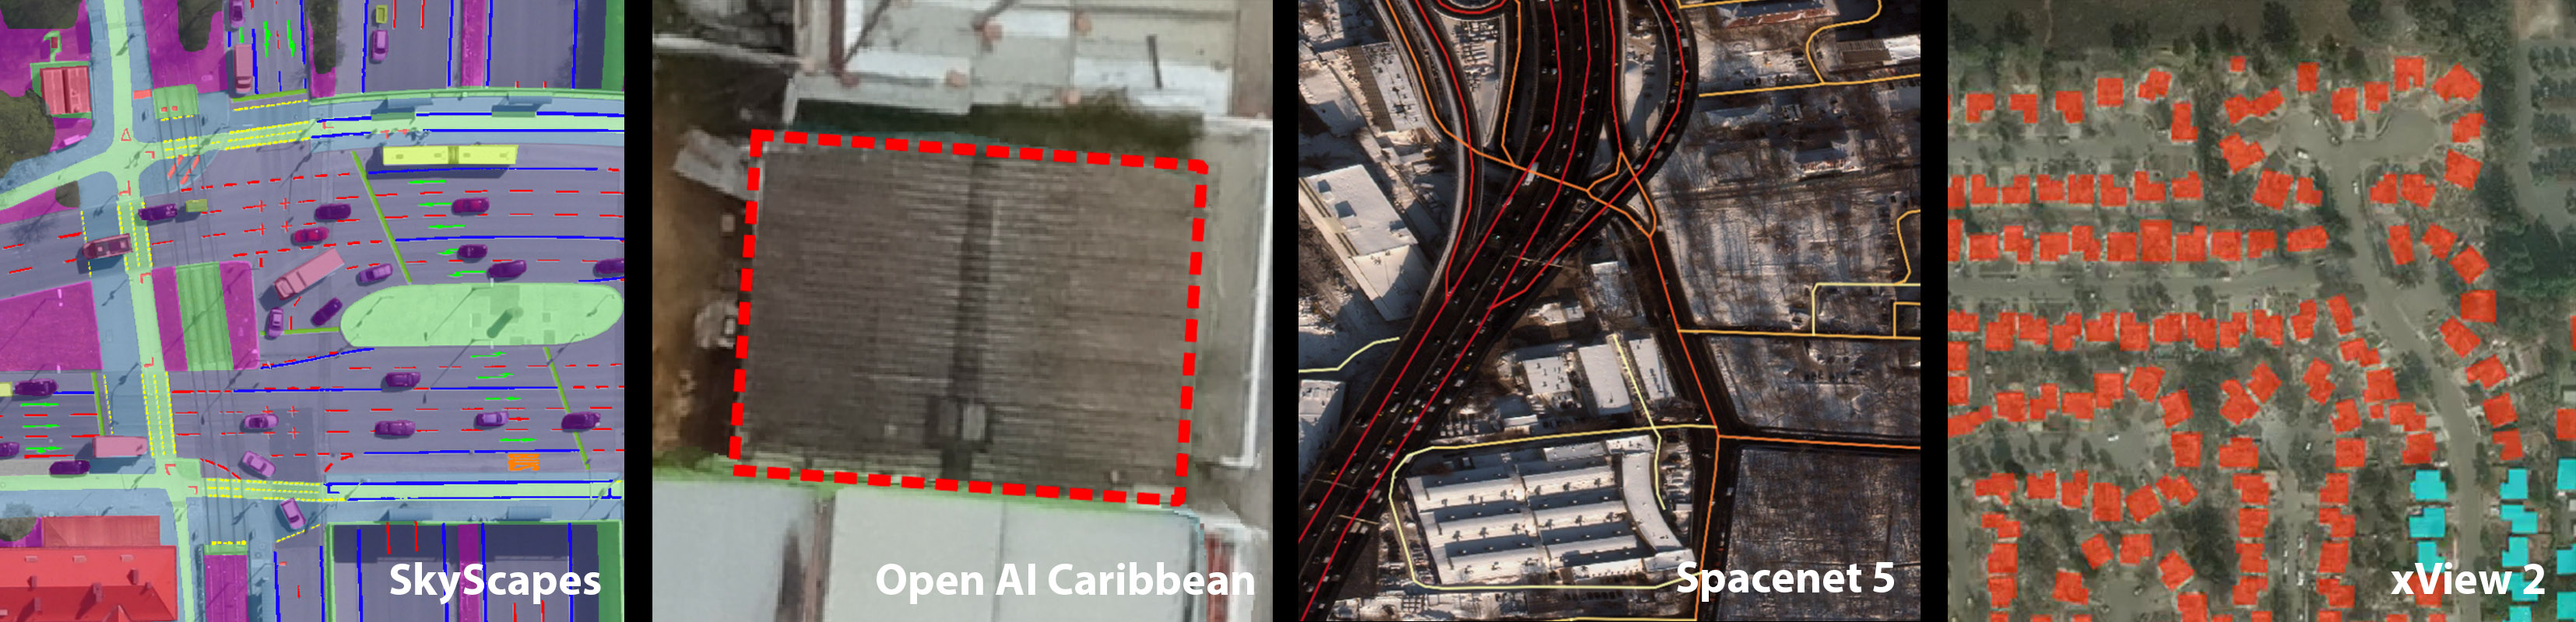
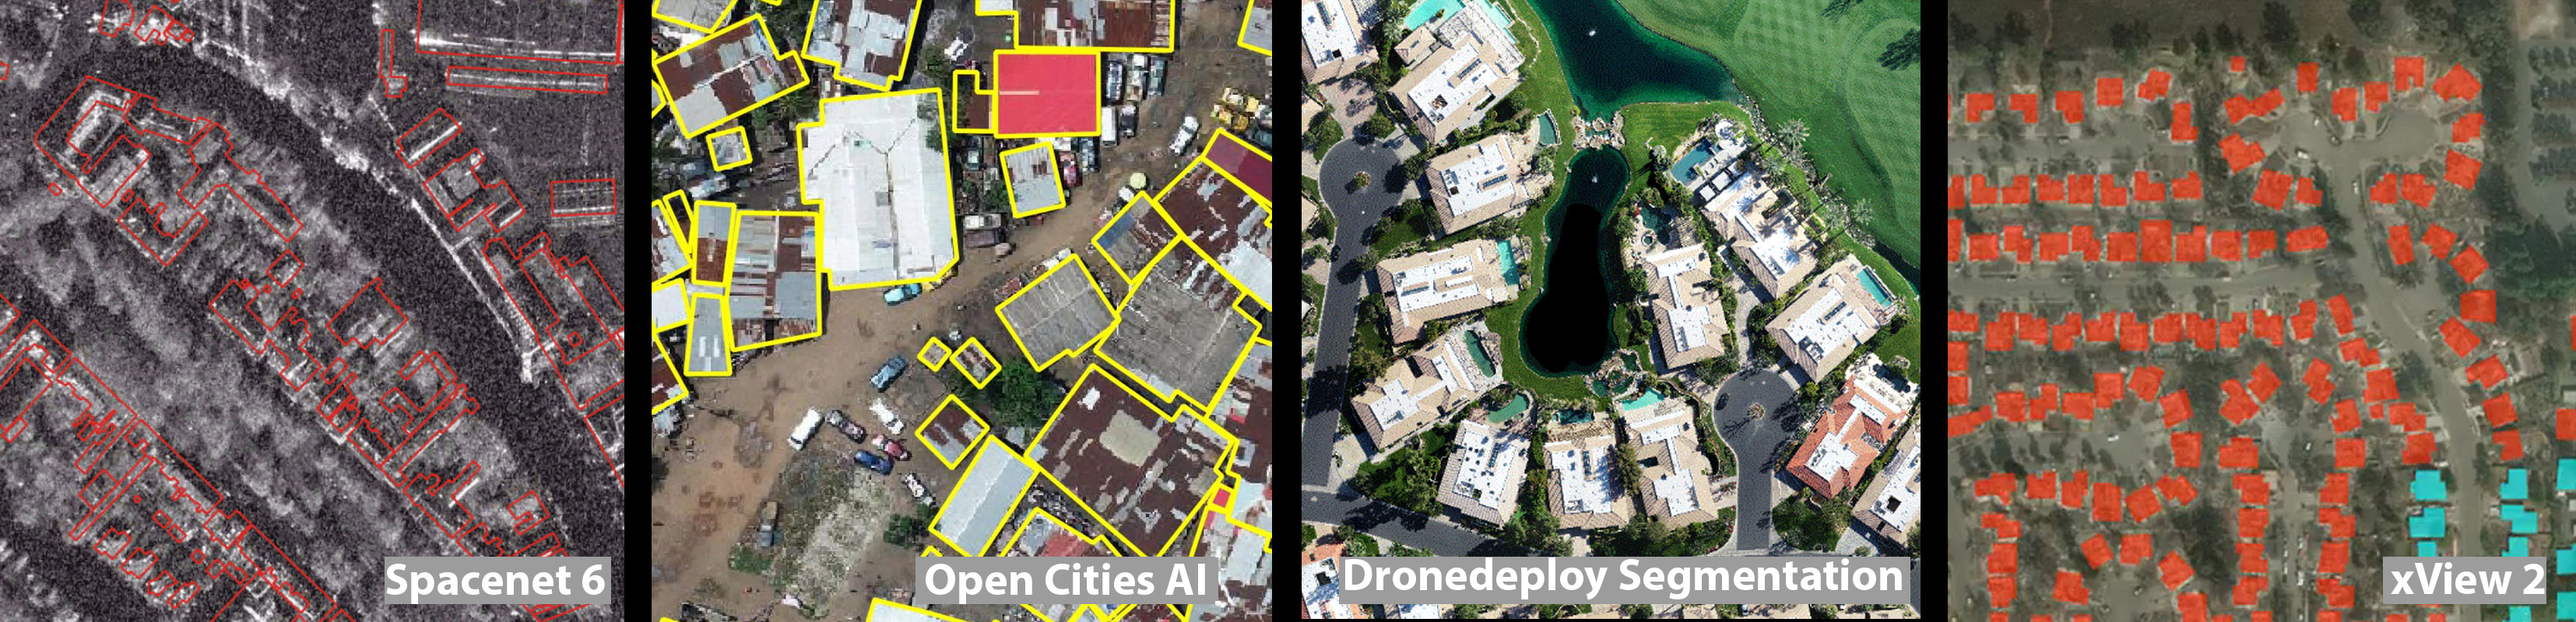
add Spacenet Round 6 - Multi-Sensor All Weather Mapping

diff --git a/README.md b/README.md
@@ -6,19 +6,22 @@ List of aerial and satellite imagery datasets with annotations for computer visi
 
 ## Recent additions and ongoing competitions
 
+- [**Spacenet Challenge Round 6 - Multi-Sensor All Weather Mapping**](https://medium.com/the-downlinq/spacenet-6-dataset-release-66076c8fb79b) *(CosmiQ Works, Capella Space, Maxar, AWS, Intel, Feb 2020)*   
+48k building footprints (enhanced 3DBAG dataset, building height attributes), Capella Space SAR data (0.5m res., four polarizations) & Worldview-3 imagery (0.3m res.), Rotterdam, Netherlands.
+
 - [**Open Cities AI Challenge**](https://www.drivendata.org/competitions/60/building-segmentation-disaster-resilience/page/150/) *(GFDRR, Mar 2020)* .   
 790k building footprints from Openstreetmap (2 label quality categories), aerial imagery (0.03-0.2m resolution, RGB, 11k 1024x1024 chips, COG format), 10 cities in Africa.
 
 - [**DroneDeploy Segmentation Dataset**](https://github.com/dronedeploy/dd-ml-segmentation-benchmark) *(DroneDeploy, Dec 2019)*   
 Drone imagery (0.1m res., RGB), labels (7 land cover catageories: building, clutter, vegetation, water, ground, car) & elevation data, baseline model implementation.
 
-- [**SkyScapes: Urban infrastructure & lane markings**](https://github.com/smajida/SkyScapes) *(DLR, Nov 2019)*   
-Highly accurate street lane markings (12 categories e.g. dash line, long line, zebra zone) & urban infrastructure (19 categories e.g. buildings, roads, vegetation). Aerial imagery (0.13 m res.) for 5.7 km2 of Munich, Germany. Paper: [Azimi et al. 2019](http://openaccess.thecvf.com/content_ICCV_2019/papers/Azimi_SkyScapes__Fine-Grained_Semantic_Understanding_of_Aerial_Scenes_ICCV_2019_paper.pdf)
-
 ![](figures/preview_recent.jpg)  
 
 
 ## 1. Instance Segmentation
+
+- [**Spacenet Challenge Round 6 - Multi-Sensor All Weather Mapping**](https://medium.com/the-downlinq/spacenet-6-dataset-release-66076c8fb79b) *(CosmiQ Works, Capella Space, Maxar, AWS, Intel, Feb 2020)*   
+48k building footprints (enhanced 3DBAG dataset, building height attributes), Capella Space SAR data (0.5m res., four polarizations) & Worldview-3 imagery (0.3m res.), Rotterdam, Netherlands.
 
 - [**xView 2 Building Damage Asessment Challenge**](https://xview2.org) *(DIUx, Nov 2019)* .   
 550k building footprints & 4 damage scale categories, 20 global locations and 7 disaster types (wildfire, landslides, dam collapses, volcanic eruptions, earthquakes/tsunamis, wind, flooding), Worldview-3 imagery (0.3m res.), pre-trained baseline model. Paper: [Gupta et al. 2019](http://openaccess.thecvf.com/content_CVPRW_2019/html/cv4gc/Gupta_Creating_xBD_A_Dataset_for_Assessing_Building_Damage_from_Satellite_CVPRW_2019_paper.html)   
